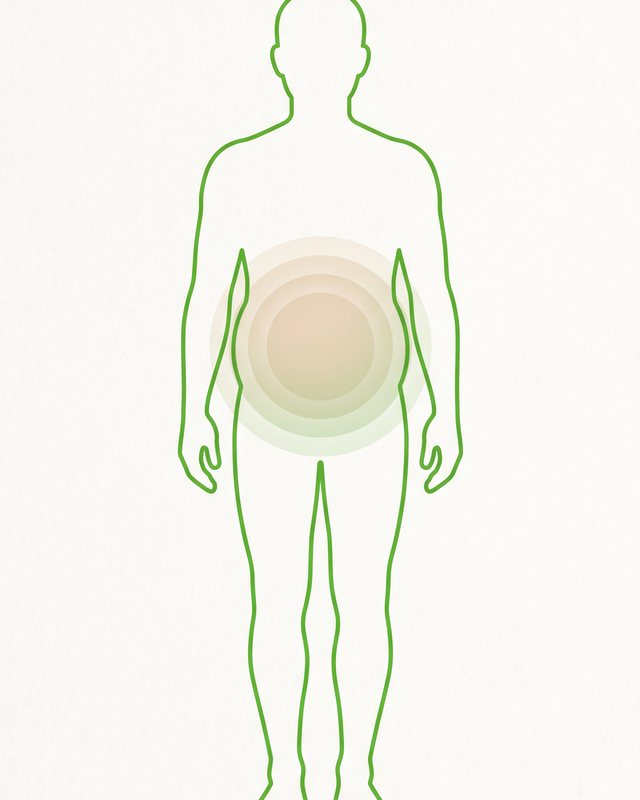
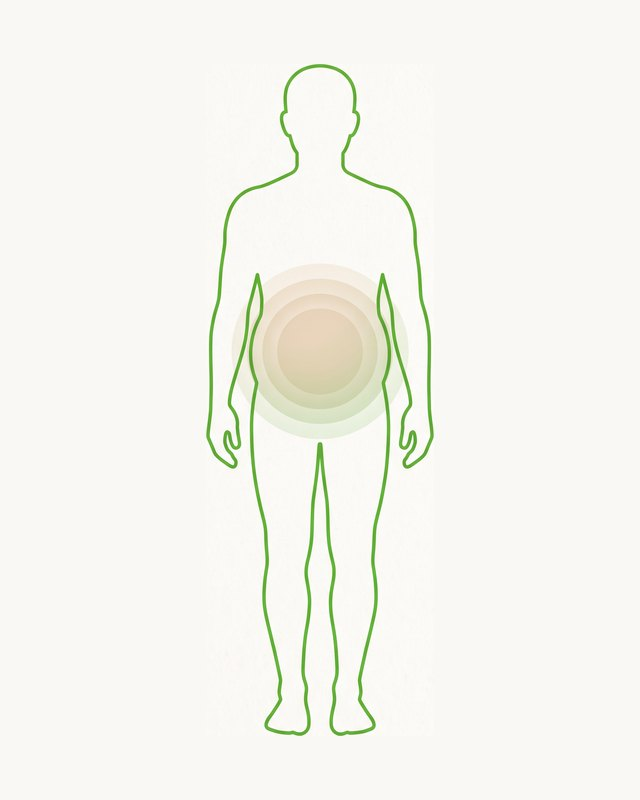
Quiz: sexta opção (imunidade), ilustrações inteiras com margem, sem corte; resultado para imunidade

diff --git a/quiz.html b/quiz.html
@@ -6,7 +6,7 @@
 <title>Good Green · Barriga estufada, intestino preso, cansaço? Responda e libere a garrafa de brinde</title>
 <meta name="description" content="Responda 4 perguntas sobre o que incomoda no seu dia e libere a garrafa de vidro de brinde no seu primeiro pedido de Good Green.">
 <link rel="stylesheet" href="assets/css/site.css?v=202610251200">
-<link rel="stylesheet" href="assets/css/lp.css?v=202610251600">
+<link rel="stylesheet" href="assets/css/lp.css?v=202610251700">
 </head>
 <body data-nav="claro" data-page="lp" data-lp="quiz">
 
@@ -26,6 +26,7 @@
         <button class="qz-opcao" type="button"><img src="assets/img/lp/qz-intestino.jpg" alt=""><i></i><span>Intestino preso, vou ao banheiro com dificuldade</span></button>
         <button class="qz-opcao" type="button"><img src="assets/img/lp/qz-tetinha.jpg" alt=""><i></i><span>Peito e barriga inchados, a famosa tetinha</span></button>
         <button class="qz-opcao" type="button"><img src="assets/img/lp/qz-cansaco.jpg" alt=""><i></i><span>Cansaço e sono depois do almoço</span></button>
+        <button class="qz-opcao" type="button"><img src="assets/img/lp/qz-imunidade.jpg" alt=""><i></i><span>Resfriados frequentes, imunidade baixa</span></button>
         <button class="qz-opcao" type="button"><img src="assets/img/lp/qz-verde.jpg" alt=""><i></i><span>Nada disso, quero só praticidade</span></button>
       </div>
       <div class="qz-pe"><span></span><button class="btn btn-escuro" data-prox disabled>Continuar</button></div>
@@ -159,6 +160,6 @@
 
 <script src="assets/js/sprite.js?v=202610231745"></script>
 <script src="assets/js/site.js?v=202610231745"></script>
-<script src="assets/js/lp.js?v=202610251300"></script>
+<script src="assets/js/lp.js?v=202610251700"></script>
 </body>
 </html>

diff --git a/assets/js/lp.js b/assets/js/lp.js
@@ -76,6 +76,7 @@
       const dor = resp.dor || [], banheiro = (resp.banheiro || [''])[0], verdes = (resp.verdes || [''])[0], tenta = (resp.tenta || [''])[0];
       let t = 'Você quer começar sem complicar.', d = 'Uma medida de Good Green em 300 ml de água, uma vez ao dia, no horário que sobrar.';
       if (dor.some(x => /estufada|intestino|tetinha/i.test(x)) || /semana ou menos|Dia sim/.test(banheiro)) { t = 'Seu foco: fibras e verdes todo dia, sem depender de disciplina.'; d = 'Couve, espirulina, maçã, água de coco e beterraba numa medida. Em 30 segundos, sem liquidificador, com a garrafa de vidro para levar.'; }
+      else if (dor.some(x => /Resfriados|imunidade/i.test(x))) { t = 'Seu foco: vitamina C e zinco todo dia, sem abrir vários potes.'; d = 'Por porção: 45 mg de vitamina C (45% do VD) e zinco (64% do VD), junto com couve, espirulina e as vitaminas B, numa bebida só, uma vez ao dia.'; }
       else if (dor.some(x => /Cansaço/i.test(x))) { t = 'Seu foco: uma rotina verde com a cafeína natural do guaraná.'; d = 'Uma medida antes do café ou no meio da tarde: vitaminas C, B2, B6 e B12 e 75 mg de cafeína do guaraná por porção.'; }
       else if (/Vários potes/i.test(tenta)) { t = 'Seu foco: um pote no lugar de vários.'; d = 'Vitaminas C, B2, B6 e B12, cromo e zinco numa bebida só, uma vez ao dia.'; }
       else if (/liquidificador/i.test(tenta) || /Nenhuma|Não faço/i.test(verdes)) { t = 'Seu foco: tirar o liquidificador do caminho.'; d = 'O verde que você adia entra em 30 segundos: uma medida em 300 ml de água, gelada fica melhor.'; }

diff --git a/assets/css/lp.css b/assets/css/lp.css
@@ -292,7 +292,7 @@ body[data-lp] .nav{justify-content:space-between}
 .qz-cards{grid-template-columns:repeat(2,1fr);gap:12px}
 @media (min-width:600px){.qz-cards{grid-template-columns:repeat(3,1fr)}}
 .qz-cards .qz-opcao{position:relative;flex-direction:column;align-items:stretch;gap:0;padding:0;border-radius:18px;overflow:hidden;background:var(--osso)}
-.qz-cards .qz-opcao img{display:block;width:100%;height:auto;aspect-ratio:4/5;object-fit:cover;object-position:center;mix-blend-mode:multiply;transition:transform .5s var(--ease-out)}
+.qz-cards .qz-opcao img{display:block;width:100%;height:auto;aspect-ratio:4/5;object-fit:contain;object-position:center;mix-blend-mode:multiply;transition:transform .5s var(--ease-out)}
 .qz-cards .qz-opcao:hover img{transform:scale(1.03)}
 .qz-cards .qz-opcao span{display:block;padding:12px 14px 14px;font-size:14px;line-height:1.3;background:#fff;border-top:1px solid var(--linha);flex:1}
 .qz-cards .qz-opcao i{position:absolute;top:12px;left:12px;background:#fff;z-index:1}

diff --git a/lp-longa.html b/lp-longa.html
@@ -150,6 +150,6 @@
 
 <script src="assets/js/sprite.js?v=202610231745"></script>
 <script src="assets/js/site.js?v=202610231745"></script>
-<script src="assets/js/lp.js?v=202610251200"></script>
+<script src="assets/js/lp.js?v=202610251700"></script>
 </body>
 </html>

diff --git a/lp-oferta.html b/lp-oferta.html
@@ -229,6 +229,6 @@
 
 <script src="assets/js/sprite.js?v=202610231745"></script>
 <script src="assets/js/site.js?v=202610231745"></script>
-<script src="assets/js/lp.js?v=202610251200"></script>
+<script src="assets/js/lp.js?v=202610251700"></script>
 </body>
 </html>

diff --git a/lp-ranking.html b/lp-ranking.html
@@ -139,6 +139,6 @@
 
 <script src="assets/js/sprite.js?v=202610231745"></script>
 <script src="assets/js/site.js?v=202610231745"></script>
-<script src="assets/js/lp.js?v=202610251200"></script>
+<script src="assets/js/lp.js?v=202610251700"></script>
 </body>
 </html>

diff --git a/lp-3-potes.html b/lp-3-potes.html
@@ -99,6 +99,6 @@
 
 <script src="assets/js/sprite.js?v=202610231745"></script>
 <script src="assets/js/site.js?v=202610231745"></script>
-<script src="assets/js/lp.js?v=202610251200"></script>
+<script src="assets/js/lp.js?v=202610251700"></script>
 </body>
 </html>

diff --git a/lp-5-motivos.html b/lp-5-motivos.html
@@ -97,6 +97,6 @@
 
 <script src="assets/js/sprite.js?v=202610231745"></script>
 <script src="assets/js/site.js?v=202610231745"></script>
-<script src="assets/js/lp.js?v=202610251200"></script>
+<script src="assets/js/lp.js?v=202610251700"></script>
 </body>
 </html>
